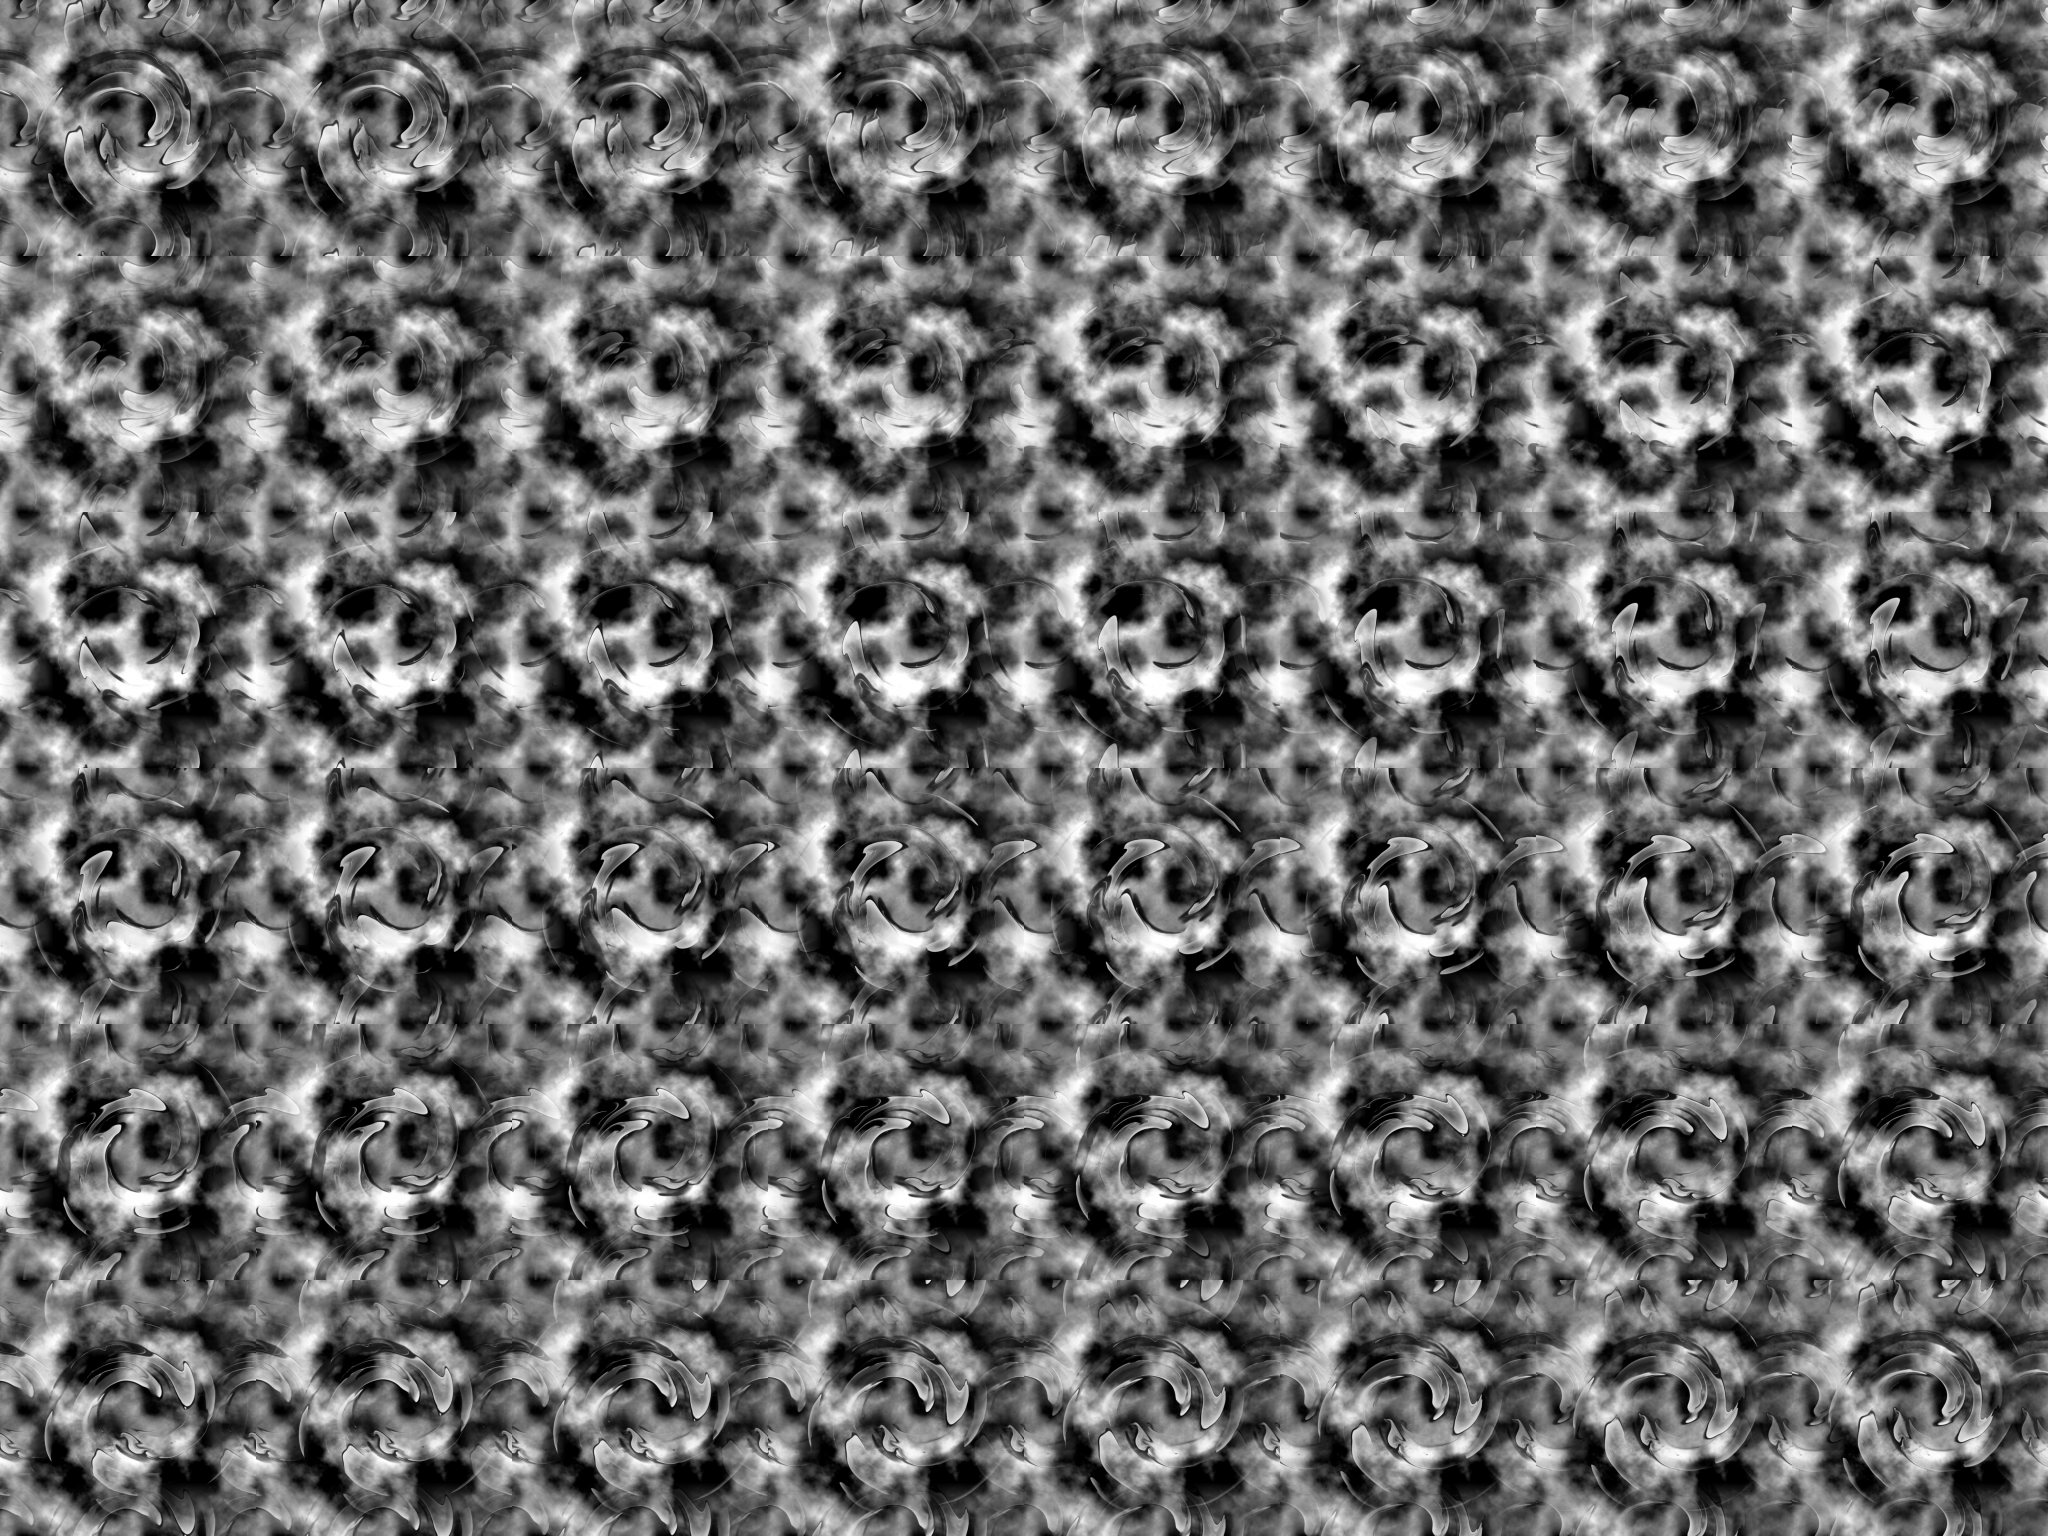
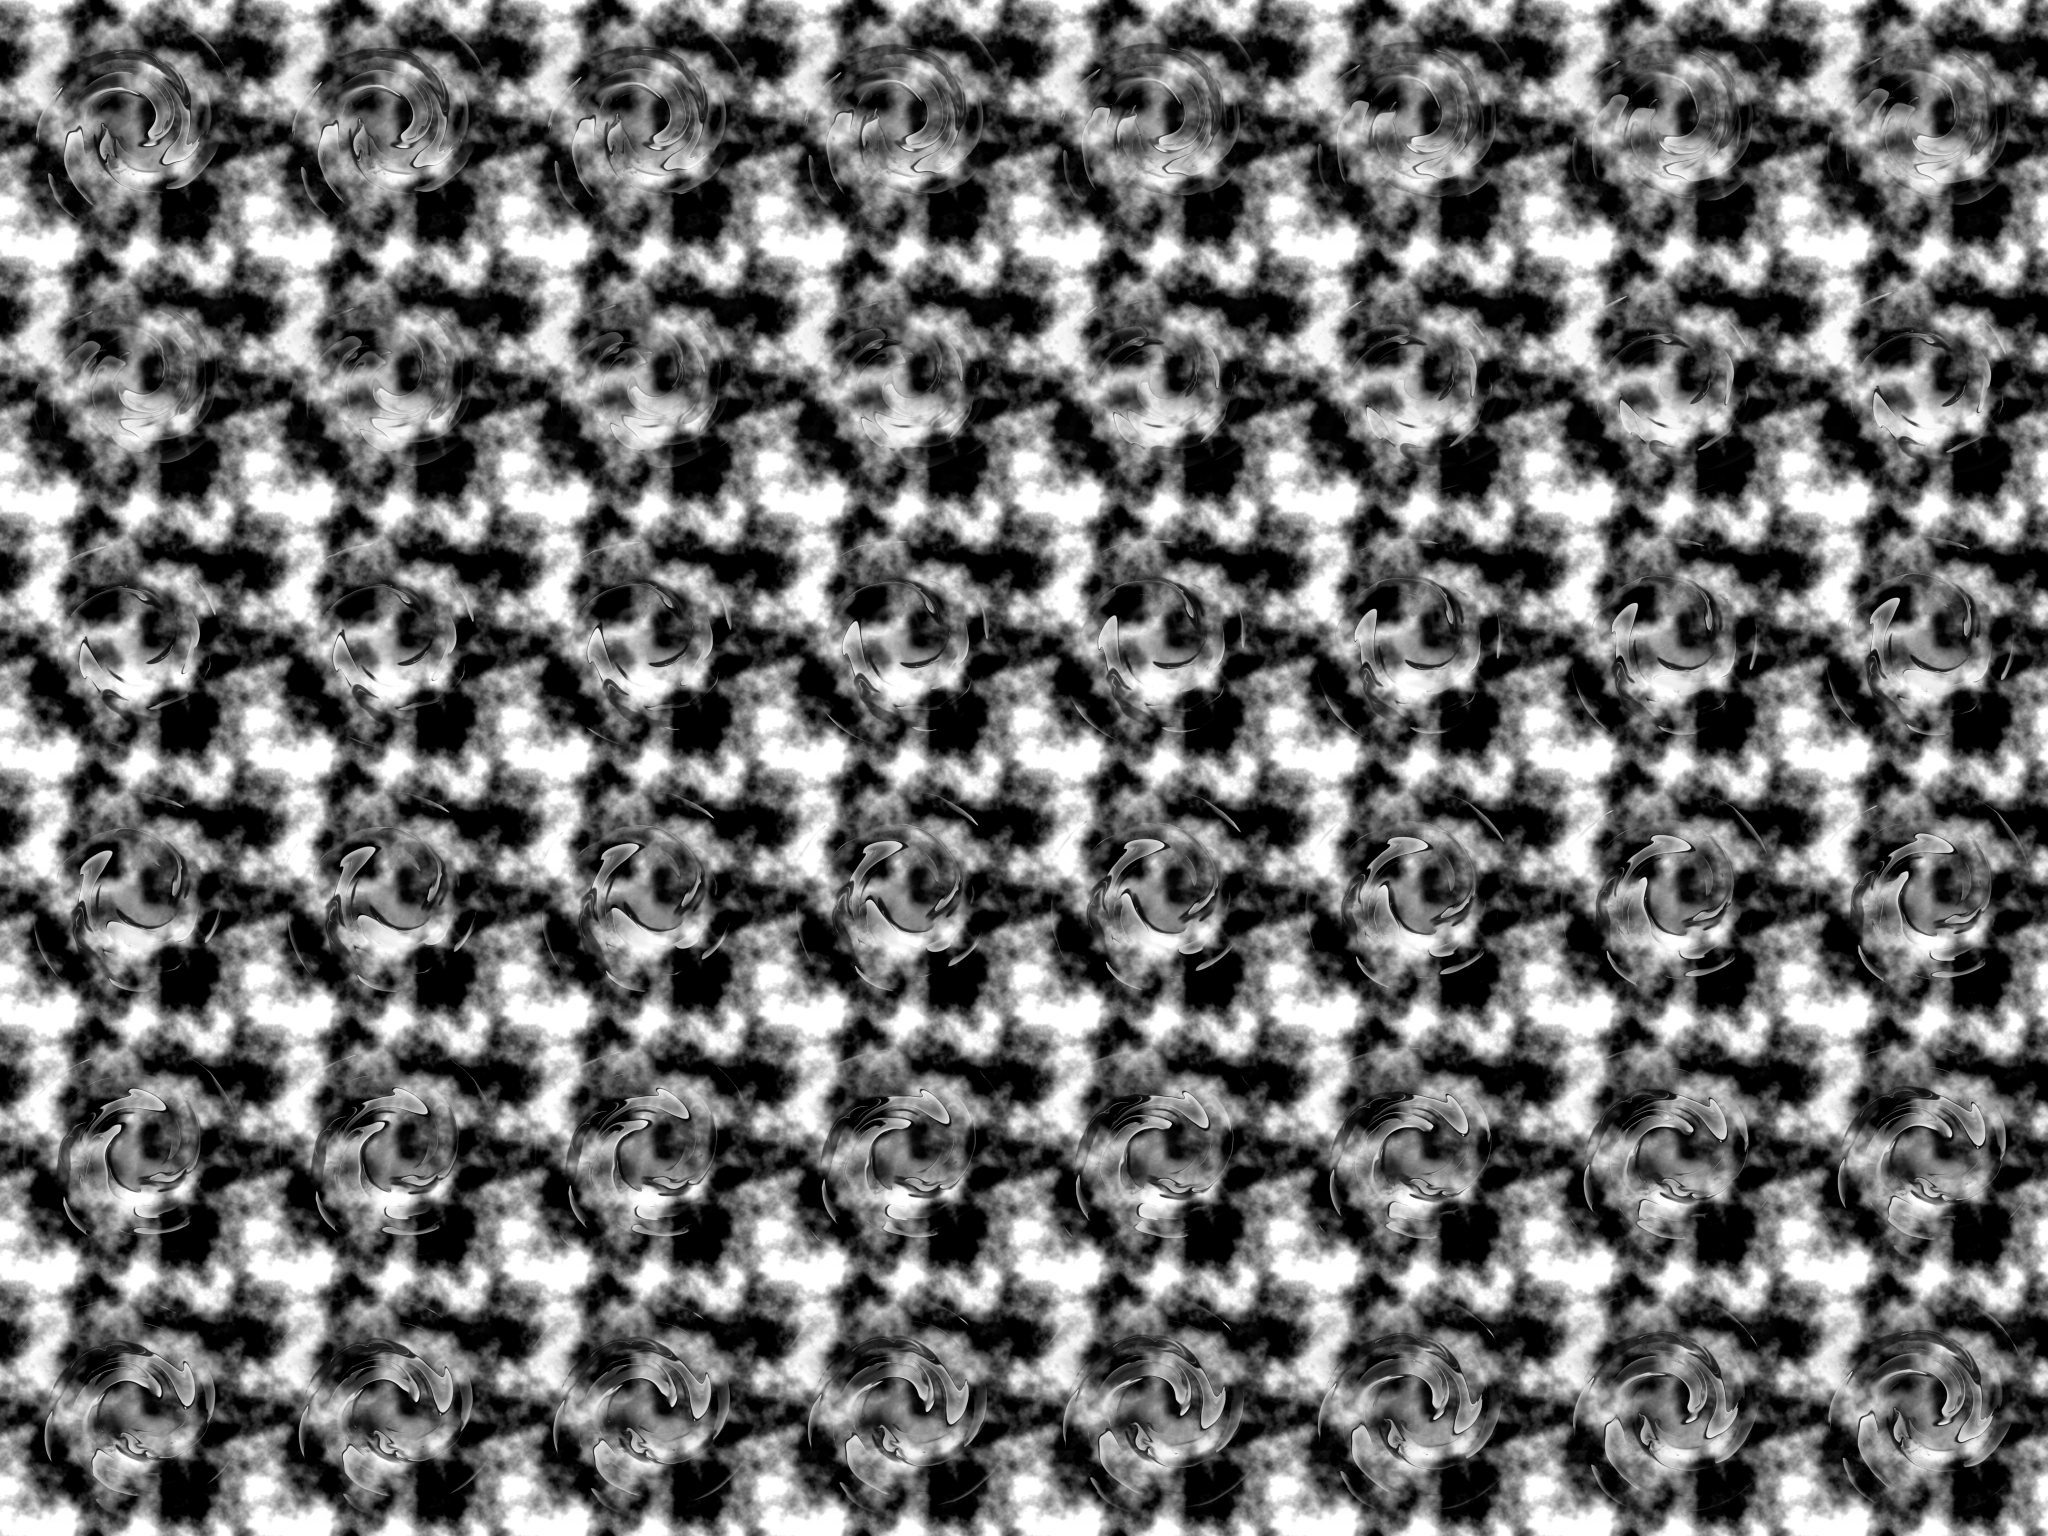
Cloud clips tile the owner's way: square gradient mask over the original still at the edges
Claude-Session: https://claude.ai/code/session_01T4ZGN1JFoexMD16bF2KBJw

diff --git a/docs/V1.2_BUILD.md b/docs/V1.2_BUILD.md
@@ -352,7 +352,8 @@ Route test: RESULT 47/47 PASS (new: transform to mech, mech dashes, transform ba
   0.8 at the entry line, was 0.38), and the shell closes round you in that colour behind it, so the entry flows into
   the white-out and the surface instead of through black space.
 - Animated cloud walls (owner's three Grok clips: heavy storm, strange nebula, smoke): each made greyscale, looped
-  (last 2.5 s cross-faded into the start), edges blended so it tiles, cut to 48 frames of 256 px in one picture
+  (last 2.5 s cross-faded into the start), and made to tile the owner's way: a square gradient mask over each frame
+  lets the original still picture (seamless) show at every edge while the middle moves, cut to 48 frames of 256 px in one picture
   (assets/fx/cloudanim_<clip>.jpg, 8 x 6, each its own small pack). The game turns a clip into a layered texture and
   the cloud shell plays it (frames blended, 6.4 fps, ~7.5 s a loop), tinted to the cloud's colour like before.
   Storm clouds wear the storm, rock fields the nebula, snow / rain and a planet's air the smoke (Data.CLOUD_ANIM).
